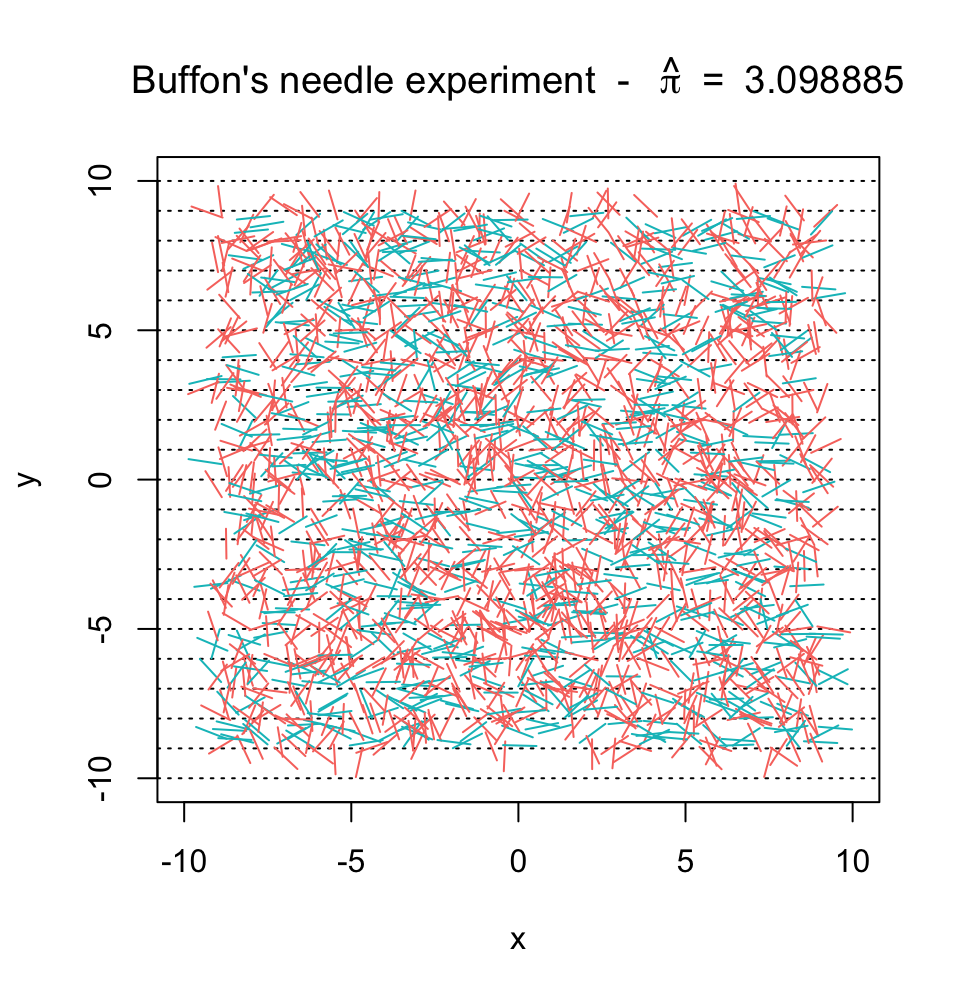
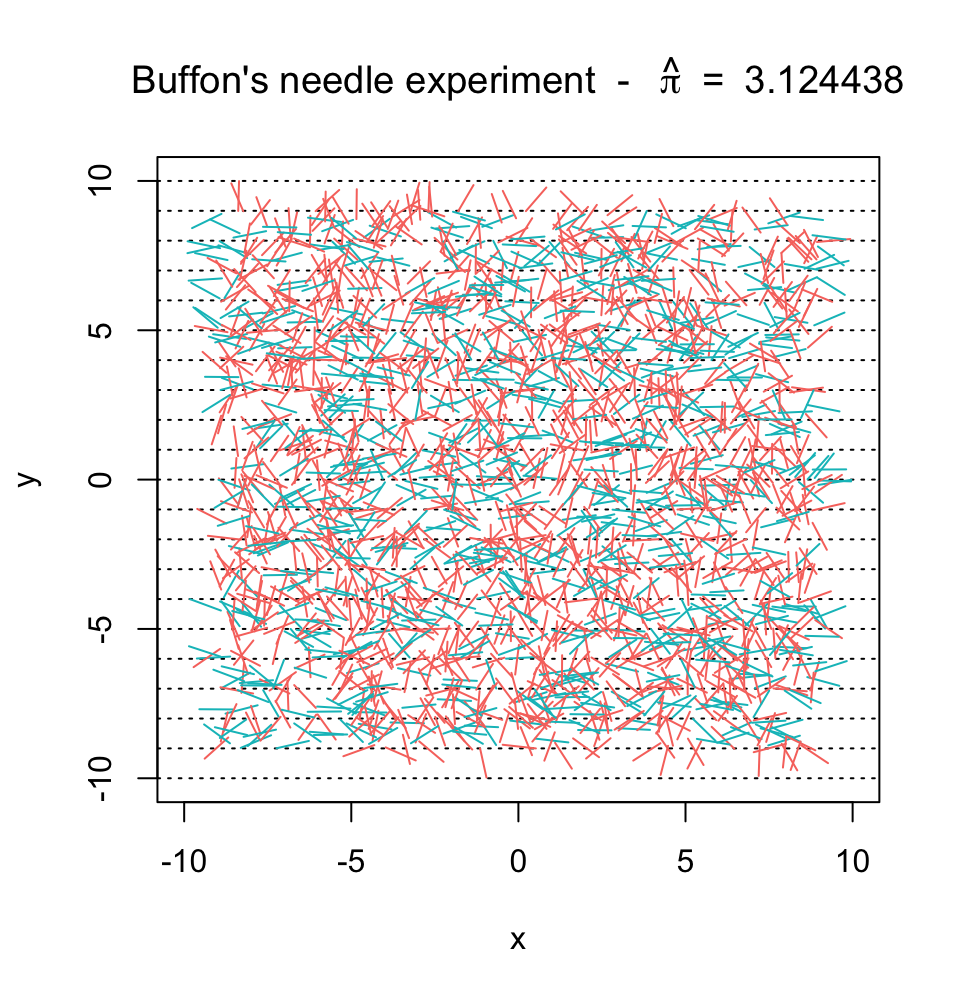
Update buffoon's needle introduction and derivation

Changed region(s): [[0.1875, 0.1864, 0.875, 0.7766], [0.8125, 0.0621, 0.9375, 0.0932]]

diff --git a/docs/shiny.html b/docs/shiny.html
@@ -7,7 +7,7 @@
   <meta http-equiv="X-UA-Compatible" content="IE=edge">
   <title>An Introduction to Statistical Programming Methods with R</title>
   <meta name="description" content="This book is under construction and serves as a reference for students or other interested readers who intend to learn the basics of statistical programming using the R language. The book will provide the reader with notions of data management, manipulation and analysis as well as of reproducible research, result-sharing and version control.">
-  <meta name="generator" content="bookdown 0.5 and GitBook 2.6.7">
+  <meta name="generator" content="bookdown 0.4.1 and GitBook 2.6.7">
 
   <meta property="og:title" content="An Introduction to Statistical Programming Methods with R" />
   <meta property="og:type" content="book" />
@@ -103,127 +103,16 @@ code > span.in { color: #60a0b0; font-weight: bold; font-style: italic; } /* Inf
 <li><a href="./">Statistical Programming Methods</a></li>
 
 <li class="divider"></li>
-<li class="chapter" data-level="1" data-path="index.html"><a href="index.html"><i class="fa fa-check"></i><b>1</b> Introduction</a><ul>
-<li class="chapter" data-level="1.1" data-path="index.html"><a href="index.html#r-and-rstudio"><i class="fa fa-check"></i><b>1.1</b> <code>R</code> and <code>RStudio</code></a><ul>
-<li class="chapter" data-level="1.1.1" data-path="index.html"><a href="index.html#why-r"><i class="fa fa-check"></i><b>1.1.1</b> Why <code>R</code>?</a></li>
-<li class="chapter" data-level="1.1.2" data-path="index.html"><a href="index.html#getting-started-with-r"><i class="fa fa-check"></i><b>1.1.2</b> Getting started with <code>R</code></a></li>
-<li class="chapter" data-level="1.1.3" data-path="index.html"><a href="index.html#about-rstudio"><i class="fa fa-check"></i><b>1.1.3</b> About RStudio</a></li>
-<li class="chapter" data-level="1.1.4" data-path="index.html"><a href="index.html#conventions"><i class="fa fa-check"></i><b>1.1.4</b> Conventions</a></li>
-<li class="chapter" data-level="1.1.5" data-path="index.html"><a href="index.html#simple-calculations"><i class="fa fa-check"></i><b>1.1.5</b> Simple calculations</a></li>
-<li class="chapter" data-level="1.1.6" data-path="index.html"><a href="index.html#getting-help"><i class="fa fa-check"></i><b>1.1.6</b> Getting help</a></li>
-<li class="chapter" data-level="1.1.7" data-path="index.html"><a href="index.html#installing-packages"><i class="fa fa-check"></i><b>1.1.7</b> Installing packages</a></li>
-<li class="chapter" data-level="1.1.8" data-path="index.html"><a href="index.html#additional-references"><i class="fa fa-check"></i><b>1.1.8</b> Additional References</a></li>
-</ul></li>
-<li class="chapter" data-level="1.2" data-path="index.html"><a href="index.html#basic-probability-and-statistics-with-r"><i class="fa fa-check"></i><b>1.2</b> Basic Probability and Statistics with <code>R</code></a><ul>
-<li class="chapter" data-level="1.2.1" data-path="index.html"><a href="index.html#probability-distributions"><i class="fa fa-check"></i><b>1.2.1</b> Probability Distributions</a></li>
-<li class="chapter" data-level="1.2.2" data-path="index.html"><a href="index.html#summary-statistics"><i class="fa fa-check"></i><b>1.2.2</b> Summary Statistics</a></li>
-</ul></li>
-<li class="chapter" data-level="1.3" data-path="index.html"><a href="index.html#main-references"><i class="fa fa-check"></i><b>1.3</b> Main References</a></li>
-<li class="chapter" data-level="1.4" data-path="index.html"><a href="index.html#license"><i class="fa fa-check"></i><b>1.4</b> License</a></li>
-</ul></li>
+<li class="chapter" data-level="1" data-path="index.html"><a href="index.html"><i class="fa fa-check"></i><b>1</b> Introduction</a></li>
 <li class="part"><span><b>I Foundation</b></span></li>
-<li class="chapter" data-level="2" data-path="rmarkdown.html"><a href="rmarkdown.html"><i class="fa fa-check"></i><b>2</b> RMarkdown</a><ul>
-<li><a href="rmarkdown.html#what-is-literate-programming">What is <strong>literate</strong> programming?</a></li>
-<li><a href="rmarkdown.html#what-is-reproducible-research">What is <strong>reproducible</strong> research?</a></li>
-<li class="chapter" data-level="2.1" data-path="rmarkdown.html"><a href="rmarkdown.html#create-an-r-markdown-file-in-rstudio"><i class="fa fa-check"></i><b>2.1</b> Create an R Markdown file in RStudio</a></li>
-<li class="chapter" data-level="2.2" data-path="rmarkdown.html"><a href="rmarkdown.html#yaml-metadata"><i class="fa fa-check"></i><b>2.2</b> YAML Metadata</a><ul>
-<li class="chapter" data-level="2.2.1" data-path="rmarkdown.html"><a href="rmarkdown.html#subsections"><i class="fa fa-check"></i><b>2.2.1</b> Subsections</a></li>
-</ul></li>
-<li class="chapter" data-level="2.3" data-path="rmarkdown.html"><a href="rmarkdown.html#text"><i class="fa fa-check"></i><b>2.3</b> Text</a><ul>
-<li class="chapter" data-level="2.3.1" data-path="rmarkdown.html"><a href="rmarkdown.html#headers"><i class="fa fa-check"></i><b>2.3.1</b> Headers</a></li>
-<li class="chapter" data-level="2.3.2" data-path="rmarkdown.html"><a href="rmarkdown.html#lists"><i class="fa fa-check"></i><b>2.3.2</b> Lists</a></li>
-<li class="chapter" data-level="2.3.3" data-path="rmarkdown.html"><a href="rmarkdown.html#hyperlinks"><i class="fa fa-check"></i><b>2.3.3</b> Hyperlinks</a></li>
-<li class="chapter" data-level="2.3.4" data-path="rmarkdown.html"><a href="rmarkdown.html#blockquotes"><i class="fa fa-check"></i><b>2.3.4</b> Blockquotes</a></li>
-<li class="chapter" data-level="2.3.5" data-path="rmarkdown.html"><a href="rmarkdown.html#pictures"><i class="fa fa-check"></i><b>2.3.5</b> Pictures</a></li>
-<li class="chapter" data-level="2.3.6" data-path="rmarkdown.html"><a href="rmarkdown.html#latex"><i class="fa fa-check"></i><b>2.3.6</b> LaTeX</a></li>
-<li class="chapter" data-level="2.3.7" data-path="rmarkdown.html"><a href="rmarkdown.html#cross-referencing-sections"><i class="fa fa-check"></i><b>2.3.7</b> Cross-referencing Sections</a></li>
-<li class="chapter" data-level="2.3.8" data-path="rmarkdown.html"><a href="rmarkdown.html#citations-and-bibliography"><i class="fa fa-check"></i><b>2.3.8</b> Citations and Bibliography</a></li>
-<li class="chapter" data-level="2.3.9" data-path="rmarkdown.html"><a href="rmarkdown.html#tables"><i class="fa fa-check"></i><b>2.3.9</b> Tables</a></li>
-<li class="chapter" data-level="2.3.10" data-path="rmarkdown.html"><a href="rmarkdown.html#additional-references-1"><i class="fa fa-check"></i><b>2.3.10</b> Additional References</a></li>
-</ul></li>
-<li class="chapter" data-level="2.4" data-path="rmarkdown.html"><a href="rmarkdown.html#code-chunks"><i class="fa fa-check"></i><b>2.4</b> Code Chunks</a><ul>
-<li class="chapter" data-level="2.4.1" data-path="rmarkdown.html"><a href="rmarkdown.html#code-chunk-options"><i class="fa fa-check"></i><b>2.4.1</b> Code Chunk Options</a></li>
-<li class="chapter" data-level="2.4.2" data-path="rmarkdown.html"><a href="rmarkdown.html#comments"><i class="fa fa-check"></i><b>2.4.2</b> Comments</a></li>
-<li class="chapter" data-level="2.4.3" data-path="rmarkdown.html"><a href="rmarkdown.html#in-line-r"><i class="fa fa-check"></i><b>2.4.3</b> In-line R</a></li>
-<li class="chapter" data-level="2.4.4" data-path="rmarkdown.html"><a href="rmarkdown.html#cache"><i class="fa fa-check"></i><b>2.4.4</b> Cache</a></li>
-</ul></li>
-<li class="chapter" data-level="2.5" data-path="rmarkdown.html"><a href="rmarkdown.html#render-output"><i class="fa fa-check"></i><b>2.5</b> Render Output</a></li>
-<li class="chapter" data-level="2.6" data-path="rmarkdown.html"><a href="rmarkdown.html#addition-information"><i class="fa fa-check"></i><b>2.6</b> Addition Information</a></li>
-</ul></li>
-<li class="chapter" data-level="3" data-path="github.html"><a href="github.html"><i class="fa fa-check"></i><b>3</b> GitHub</a><ul>
-<li class="chapter" data-level="3.1" data-path="github.html"><a href="github.html#version-control"><i class="fa fa-check"></i><b>3.1</b> Version Control</a></li>
-<li class="chapter" data-level="3.2" data-path="github.html"><a href="github.html#git-and-github"><i class="fa fa-check"></i><b>3.2</b> Git and GitHub</a><ul>
-<li class="chapter" data-level="3.2.1" data-path="github.html"><a href="github.html#git-setup"><i class="fa fa-check"></i><b>3.2.1</b> Git Setup</a></li>
-<li class="chapter" data-level="3.2.2" data-path="github.html"><a href="github.html#github-setup"><i class="fa fa-check"></i><b>3.2.2</b> GitHub Setup</a></li>
-<li class="chapter" data-level="3.2.3" data-path="github.html"><a href="github.html#student-developer-pack"><i class="fa fa-check"></i><b>3.2.3</b> Student Developer Pack</a></li>
-</ul></li>
-<li class="chapter" data-level="3.3" data-path="github.html"><a href="github.html#github-workflow"><i class="fa fa-check"></i><b>3.3</b> GitHub Workflow</a><ul>
-<li class="chapter" data-level="3.3.1" data-path="github.html"><a href="github.html#branching"><i class="fa fa-check"></i><b>3.3.1</b> Branching</a></li>
-<li class="chapter" data-level="3.3.2" data-path="github.html"><a href="github.html#pull"><i class="fa fa-check"></i><b>3.3.2</b> Pull</a></li>
-<li class="chapter" data-level="3.3.3" data-path="github.html"><a href="github.html#commits"><i class="fa fa-check"></i><b>3.3.3</b> Commits</a></li>
-<li class="chapter" data-level="3.3.4" data-path="github.html"><a href="github.html#push-or-merge"><i class="fa fa-check"></i><b>3.3.4</b> Push or Merge</a></li>
-<li class="chapter" data-level="3.3.5" data-path="github.html"><a href="github.html#merge-conflicts"><i class="fa fa-check"></i><b>3.3.5</b> Merge Conflicts</a></li>
-</ul></li>
-<li class="chapter" data-level="3.4" data-path="github.html"><a href="github.html#github-workflow-on-command-line-git-bash"><i class="fa fa-check"></i><b>3.4</b> GitHub Workflow on Command Line / Git Bash</a></li>
-<li class="chapter" data-level="3.5" data-path="github.html"><a href="github.html#issues"><i class="fa fa-check"></i><b>3.5</b> Issues</a></li>
-<li class="chapter" data-level="3.6" data-path="github.html"><a href="github.html#slack-integration"><i class="fa fa-check"></i><b>3.6</b> Slack Integration</a></li>
-<li class="chapter" data-level="3.7" data-path="github.html"><a href="github.html#additional-references-2"><i class="fa fa-check"></i><b>3.7</b> Additional References</a></li>
-</ul></li>
+<li class="chapter" data-level="2" data-path="rmarkdown.html"><a href="rmarkdown.html"><i class="fa fa-check"></i><b>2</b> RMarkdown</a></li>
+<li class="chapter" data-level="3" data-path="github.html"><a href="github.html"><i class="fa fa-check"></i><b>3</b> GitHub</a></li>
 <li class="part"><span><b>II Introduction to R</b></span></li>
-<li class="chapter" data-level="4" data-path="data.html"><a href="data.html"><i class="fa fa-check"></i><b>4</b> Data Structures</a><ul>
-<li class="chapter" data-level="4.1" data-path="data.html"><a href="data.html#vectors"><i class="fa fa-check"></i><b>4.1</b> Vectors</a><ul>
-<li class="chapter" data-level="4.1.1" data-path="data.html"><a href="data.html#type"><i class="fa fa-check"></i><b>4.1.1</b> Type</a></li>
-<li class="chapter" data-level="4.1.2" data-path="data.html"><a href="data.html#coercion"><i class="fa fa-check"></i><b>4.1.2</b> Coercion</a></li>
-<li class="chapter" data-level="4.1.3" data-path="data.html"><a href="data.html#subsetting"><i class="fa fa-check"></i><b>4.1.3</b> Subsetting</a></li>
-<li class="chapter" data-level="4.1.4" data-path="data.html"><a href="data.html#vectattr"><i class="fa fa-check"></i><b>4.1.4</b> Attributes</a></li>
-<li class="chapter" data-level="4.1.5" data-path="data.html"><a href="data.html#addlab"><i class="fa fa-check"></i><b>4.1.5</b> Adding Labels</a></li>
-<li class="chapter" data-level="4.1.6" data-path="data.html"><a href="data.html#working-with-dates"><i class="fa fa-check"></i><b>4.1.6</b> Working with Dates</a></li>
-<li class="chapter" data-level="4.1.7" data-path="data.html"><a href="data.html#useful-functions-with-vectors"><i class="fa fa-check"></i><b>4.1.7</b> Useful Functions with Vectors</a></li>
-<li class="chapter" data-level="4.1.8" data-path="data.html"><a href="data.html#creating-sequences"><i class="fa fa-check"></i><b>4.1.8</b> Creating sequences</a></li>
-<li class="chapter" data-level="4.1.9" data-path="data.html"><a href="data.html#example-apple-stock-price"><i class="fa fa-check"></i><b>4.1.9</b> Example: Apple Stock Price</a></li>
-</ul></li>
-<li class="chapter" data-level="4.2" data-path="data.html"><a href="data.html#matrices"><i class="fa fa-check"></i><b>4.2</b> Matrices</a><ul>
-<li class="chapter" data-level="4.2.1" data-path="data.html"><a href="data.html#subsetting-1"><i class="fa fa-check"></i><b>4.2.1</b> Subsetting</a></li>
-<li class="chapter" data-level="4.2.2" data-path="data.html"><a href="data.html#matrix-operators-in-r"><i class="fa fa-check"></i><b>4.2.2</b> Matrix Operators in R</a></li>
-<li class="chapter" data-level="4.2.3" data-path="data.html"><a href="data.html#example-summary-statistics-with-matrix-notation"><i class="fa fa-check"></i><b>4.2.3</b> Example: Summary Statistics with Matrix Notation</a></li>
-<li class="chapter" data-level="4.2.4" data-path="data.html"><a href="data.html#example-portfolio-optimization"><i class="fa fa-check"></i><b>4.2.4</b> Example: Portfolio Optimization</a></li>
-</ul></li>
-<li class="chapter" data-level="4.3" data-path="data.html"><a href="data.html#array"><i class="fa fa-check"></i><b>4.3</b> Array</a></li>
-<li class="chapter" data-level="4.4" data-path="data.html"><a href="data.html#list"><i class="fa fa-check"></i><b>4.4</b> List</a></li>
-<li class="chapter" data-level="4.5" data-path="data.html"><a href="data.html#dataframe"><i class="fa fa-check"></i><b>4.5</b> Dataframe</a><ul>
-<li class="chapter" data-level="4.5.1" data-path="data.html"><a href="data.html#creation"><i class="fa fa-check"></i><b>4.5.1</b> Creation</a></li>
-<li class="chapter" data-level="4.5.2" data-path="data.html"><a href="data.html#combination"><i class="fa fa-check"></i><b>4.5.2</b> Combination</a></li>
-<li class="chapter" data-level="4.5.3" data-path="data.html"><a href="data.html#subsetting-2"><i class="fa fa-check"></i><b>4.5.3</b> Subsetting</a></li>
-<li class="chapter" data-level="4.5.4" data-path="data.html"><a href="data.html#example-maps"><i class="fa fa-check"></i><b>4.5.4</b> Example: Maps</a></li>
-</ul></li>
-</ul></li>
-<li class="chapter" data-level="5" data-path="control.html"><a href="control.html"><i class="fa fa-check"></i><b>5</b> Control Structures</a><ul>
-<li class="chapter" data-level="5.1" data-path="control.html"><a href="control.html#introduction-1"><i class="fa fa-check"></i><b>5.1</b> Introduction</a></li>
-<li class="chapter" data-level="5.2" data-path="control.html"><a href="control.html#selcontrostat"><i class="fa fa-check"></i><b>5.2</b> Selection control statements</a><ul>
-<li class="chapter" data-level="5.2.1" data-path="control.html"><a href="control.html#sec_logical"><i class="fa fa-check"></i><b>5.2.1</b> Logical Operators</a></li>
-<li class="chapter" data-level="5.2.2" data-path="control.html"><a href="control.html#selection-operators"><i class="fa fa-check"></i><b>5.2.2</b> Selection Operators</a></li>
-<li class="chapter" data-level="5.2.3" data-path="control.html"><a href="control.html#iter_cont_stat"><i class="fa fa-check"></i><b>5.2.3</b> Iterative Control Statements</a></li>
-</ul></li>
-<li class="chapter" data-level="5.3" data-path="control.html"><a href="control.html#example-the-bootstrap"><i class="fa fa-check"></i><b>5.3</b> Example: The Bootstrap</a></li>
-<li class="chapter" data-level="5.4" data-path="control.html"><a href="control.html#example-random-walk"><i class="fa fa-check"></i><b>5.4</b> Example: Random Walk</a></li>
-<li class="chapter" data-level="5.5" data-path="control.html"><a href="control.html#example-monte-carlo-integration"><i class="fa fa-check"></i><b>5.5</b> Example: Monte-Carlo Integration</a><ul>
-<li class="chapter" data-level="5.5.1" data-path="control.html"><a href="control.html#introduction-2"><i class="fa fa-check"></i><b>5.5.1</b> Introduction</a></li>
-<li class="chapter" data-level="5.5.2" data-path="control.html"><a href="control.html#implementation"><i class="fa fa-check"></i><b>5.5.2</b> Implementation</a></li>
-<li class="chapter" data-level="5.5.3" data-path="control.html"><a href="control.html#application-to-the-normal-distribution"><i class="fa fa-check"></i><b>5.5.3</b> Application to the Normal Distribution</a></li>
-<li class="chapter" data-level="5.5.4" data-path="control.html"><a href="control.html#application-to-nonelementary-integrals"><i class="fa fa-check"></i><b>5.5.4</b> Application to Nonelementary Integrals</a></li>
-</ul></li>
-</ul></li>
-<li class="chapter" data-level="6" data-path="functions.html"><a href="functions.html"><i class="fa fa-check"></i><b>6</b> Functions</a><ul>
-<li class="chapter" data-level="6.1" data-path="functions.html"><a href="functions.html#r-functions"><i class="fa fa-check"></i><b>6.1</b> R functions</a></li>
-<li class="chapter" data-level="6.2" data-path="functions.html"><a href="functions.html#creating-functions-in-r"><i class="fa fa-check"></i><b>6.2</b> Creating functions in R</a><ul>
-<li class="chapter" data-level="6.2.1" data-path="functions.html"><a href="functions.html#function-arguments"><i class="fa fa-check"></i><b>6.2.1</b> Function arguments</a></li>
-<li class="chapter" data-level="6.2.2" data-path="functions.html"><a href="functions.html#function-body"><i class="fa fa-check"></i><b>6.2.2</b> Function body</a></li>
-</ul></li>
-<li class="chapter" data-level="6.3" data-path="functions.html"><a href="functions.html#function-environment"><i class="fa fa-check"></i><b>6.3</b> Function environment</a></li>
-<li class="chapter" data-level="6.4" data-path="functions.html"><a href="functions.html#example-continued-least-squares-function"><i class="fa fa-check"></i><b>6.4</b> Example (continued): Least-squares function</a></li>
-</ul></li>
+<li class="chapter" data-level="4" data-path="data.html"><a href="data.html"><i class="fa fa-check"></i><b>4</b> Data Structures</a></li>
+<li class="chapter" data-level="5" data-path="control.html"><a href="control.html"><i class="fa fa-check"></i><b>5</b> Control Structures</a></li>
+<li class="chapter" data-level="6" data-path="functions.html"><a href="functions.html"><i class="fa fa-check"></i><b>6</b> Functions</a></li>
 <li class="chapter" data-level="7" data-path="shiny.html"><a href="shiny.html"><i class="fa fa-check"></i><b>7</b> Shiny</a><ul>
-<li class="chapter" data-level="7.1" data-path="shiny.html"><a href="shiny.html#introduction-3"><i class="fa fa-check"></i><b>7.1</b> Introduction</a><ul>
+<li class="chapter" data-level="7.1" data-path="shiny.html"><a href="shiny.html#introduction-1"><i class="fa fa-check"></i><b>7.1</b> Introduction</a><ul>
 <li class="chapter" data-level="7.1.1" data-path="shiny.html"><a href="shiny.html#step-1.-r-code-server-backend"><i class="fa fa-check"></i><b>7.1.1</b> Step 1. R Code / Server / Backend</a></li>
 <li class="chapter" data-level="7.1.2" data-path="shiny.html"><a href="shiny.html#step-2-user-interface-ui-frontend"><i class="fa fa-check"></i><b>7.1.2</b> Step 2: User Interface (UI) / Frontend</a></li>
 <li class="chapter" data-level="7.1.3" data-path="shiny.html"><a href="shiny.html#step-3-connecting-frontend-and-backend"><i class="fa fa-check"></i><b>7.1.3</b> Step 3: Connecting frontend and backend</a></li>
@@ -254,7 +143,7 @@ code > span.in { color: #60a0b0; font-weight: bold; font-style: italic; } /* Inf
 <div id="shiny" class="section level1">
 <h1><span class="header-section-number">Chapter 7</span> Shiny</h1>
 <p>Shiny is an R package that makes it easy to build interactive web apps straight from R.</p>
-<div id="introduction-3" class="section level2">
+<div id="introduction-1" class="section level2">
 <h2><span class="header-section-number">7.1</span> Introduction</h2>
 <p>Before building the application, we want to know to build our application, and think more like a software engineer. We want to take some input, such as parameters, and produce output. In this chapter we will build the shiny applicaion building procedure.</p>
 <div id="step-1.-r-code-server-backend" class="section level3">
@@ -354,8 +243,8 @@ bins &lt;-<span class="st"> </span><span class="kw">seq</span>(<span class="kw">
 </tr>
 </tbody>
 </table>
-<div style="white-space: pre-line;">sidebarPanel() | Makes a sidebar menu |
-mainPanel() | Main content area for different output |</div>
+<p>sidebarPanel() | Makes a sidebar menu |<br />
+mainPanel() | Main content area for different output |</p>
 </div>
 <div id="output-render-controls" class="section level4">
 <h4><span class="header-section-number">7.1.2.3</span> Output Render Controls</h4>
@@ -406,123 +295,171 @@ mainPanel() | Main content area for different output |</div>
 </div>
 <div id="example-buffons-needle" class="section level2">
 <h2><span class="header-section-number">7.2</span> Example: Buffon’s needle</h2>
-<p>In 1777, the French nobleman Georges-Louis Leclerc, Compte de Buffon posed the following problem to the Royal Academy of Sciences in Paris (ADD REF HERE):</p>
+<p>In 1777, the French nobleman Georges-Louis Leclerc, Compte de Buffon posed the following problem to the Royal Academy of Sciences in Paris <span class="citation">(Georges-Louis Leclerc <a href="#ref-buffon1777essai">1777</a>)</span>:</p>
 <blockquote>
-<p>Suppose that you drop a short needle on a ruled paper - what is then the probability that the needle comes to lie in a position where it crosses one of the lines?</p>
+<p>Suppose that you drop a needle of unit length on a plane ruled by the lines <span class="math inline">\(y = m \; (m = 0, \pm 1, \pm 2, ...)\)</span> - what is then the probability that the needle comes to lie in a position where it crosses one of the lines?</p>
 </blockquote>
-<p>Compte de Buffon also provided the answer and showed that the needle will intersect lines with a predictable probability. In mathematical terms, his solution (still known today as the Buffon principle) can be stated as follows (for <span class="math inline">\(l \leq d\)</span>):</p>
-<p><span class="math display">\[
-\mathbb{P}(\text{intersection}) = \frac{2}{\pi} \times \frac{l}{d},
-\]</span></p>
-<p>where <span class="math inline">\(l\)</span> and <span class="math inline">\(d\)</span> denote, respectively, the length of the needle and the distance between the lines on the ruled paper. If you are curious about the derivation of this result, click on the button below.</p>
-<p>ADD PROOF HERE</p>
-<p>For simplicity, let us suppose that <span class="math inline">\(l = d\)</span>, i.e. the length of the needle is the same as distance between the lines on the ruled paper. In this case, we obtain</p>
-<p><span class="math display">\[
+<p>Compte de Buffon also provided the answer and showed that the needle will intersect lines with a predictable probability. In mathematical terms, his solution (still known today as the Buffon principle) can be stated as follows:</p>
+<span class="math display" id="eq:probbuffon">\[\begin{equation} 
 \mathbb{P}(\text{intersection}) = \frac{2}{\pi}.
-\]</span></p>
-<p>SOMETHING ABOUT MC</p>
-<p>Therefore, we obtain</p>
-<p><span class="math display">\[\hat{\pi} = \frac{2 n}{S_n}\]</span></p>
-<p>One can show that <span class="math inline">\(\[\hat{\pi}\)</span> converge in probability of <span class="math inline">\(\pi\)</span>, i.e. for all <span class="math inline">\(\varepsilon &gt; 0\)</span>:</p>
+\tag{7.1}
+\end{equation}\]</span>
+<p>If you are curious about the derivation of this result, click on the button below.</p>
+<button id="hidebutton2">
+Derivation - Equation (7.1)
+</button>
+<div id="hideclass2">
+
+<div class="rmdtip">
+<p>This proof is based on the solution of Example 4.5.8 of <span class="citation">Grimmett and Stirzaker (<a href="#ref-grimmett2001probability">2001</a>)</span>. We start by letting the point <span class="math inline">\((X, Y)\)</span> denote the coordinates of the center of the needle and let <span class="math inline">\(\Theta\)</span> be the angle, modulo <span class="math inline">\(\pi\)</span>, made by the needle and the horizontal axis. Next, we define the distance from the needle’s center to the nearest line beneath it by <span class="math inline">\(Z = Y - \lfloor Y \rfloor\)</span>, where <span class="math inline">\(\lfloor Y \rfloor\)</span> denotes the “floor” of <span class="math inline">\(Y\)</span>, i.e. the greatest integer not greater than <span class="math inline">\(Y\)</span>. Since the needle is randomly casted we have that the joint density of <span class="math inline">\((Z, \Theta)\)</span> is given by:</p>
 <p><span class="math display">\[
-\lim_{n \rightarrow \infty} \; \mathbb{P}\left( |\hat{\pi} - {\pi} | &gt; \varepsilon \right) = 0.
+f_{Z, \Theta} (z, \theta) = f_{Z} (z) f_{\Theta} (\theta) = \frac{1}{\pi},
 \]</span></p>
-<p>If you are curious click on the button below</p>
-<p>TO DO</p>
+<p>for <span class="math inline">\(0 \leq z \leq 1\)</span> and <span class="math inline">\(0 \leq \theta \leq \pi\)</span>. By drawing a diagram one can see that an interception occurs if and only if <span class="math inline">\((Z, \Theta) \in \mathcal{B}\)</span>, where</p>
+<p><span class="math display">\[
+\mathcal{B} = \left\{(z, \theta)\,: \;\; z \leq \frac{1}{2} \sin (\theta)  \;\; \text{or} \;\; 1-z \leq \frac{1}{2} \sin(\theta)\right\}.
+\]</span></p>
+<p>Therefore, we obtain</p>
+<p><span class="math display">\[
+\mathbb{P}(\text{intersection}) = \iint_\mathcal{B} \; f_{Z, \Theta} (z, \theta)\, dz \, d\theta = \frac{1}{\pi} \int_0^\pi \left(\int_0^{\frac{1}{2}\sin(\theta)} dz + \int_{1 - \frac{1}{2}\sin(\theta)}^{1} dz \right) d\theta = \frac{2}{\pi},
+\]</span></p>
+which verifies Equation <a href="shiny.html#eq:probbuffon">(7.1)</a> and concludes the proof.
+</div>
+<p></p>
+</div>
+<p></p>
+<p>Georges-Louis Leclerc motivation behind this problem was to design an experiment to estimate the value of <span class="math inline">\(\pi\)</span>. Indeed, if you fling a needle a large number <span class="math inline">\(n\)</span> times onto a ruled plane and count the number of times <span class="math inline">\(S_n\)</span> that the needle intersects a line we might be able to approximate <span class="math inline">\(\mathbb{P}(\text{intersection})\)</span> and therefore <span class="math inline">\(\pi\)</span>. From Equation <a href="shiny.html#eq:probbuffon">(7.1)</a>, we know that the proportion <span class="math inline">\(S_n/n\)</span> will be “close” to the probability <span class="math inline">\(\mathbb{P}(\text{intersection})\)</span>. In fact the (weak) law of large number garantees that <span class="math inline">\(S_n/n\)</span> converges (in probability) to <span class="math inline">\(2/\pi\)</span>, i.e. for any given <span class="math inline">\(\varepsilon &gt; 0\)</span>,</p>
+<p><span class="math display">\[
+\lim_{n \rightarrow \infty} \; \mathbb{P}\left( \left| \frac{S_n}{n} - \frac{2}{\pi} \right|  &gt; \varepsilon \right) = 0.
+\]</span></p>
+<p>Thus, the estimator</p>
+<p><span class="math display">\[
+\hat{\pi} = \frac{2n}{S_n},
+\]</span></p>
+<p>is a plausible estimator of <span class="math inline">\(\pi\)</span>. The Continous Mapping Theorem <span class="citation">(see e.g. Theorem 1.14 of DasGupta <a href="#ref-dasgupta2008asymptotic">2008</a>)</span> can (among other) be used to show that <span class="math inline">\(\hat{\pi}\)</span> is a <strong>consistent</strong> estimator of <span class="math inline">\(\pi\)</span> (i.e. <span class="math inline">\(\hat{\pi}\)</span> converges in probability to <span class="math inline">\(\pi\)</span>). In 1777, Georges-Louis Leclerc investigated this problem and computed <span class="math inline">\(\hat{\pi}\)</span> by flipping a coin 2084 times, which may consitute the first recorded example of a Monte-Carlo method (simulation?) in use.</p>
+<p>INTRO HERE</p>
 <p>In the function below, we cast a needle:</p>
-<div class="sourceCode"><pre class="sourceCode r"><code class="sourceCode r">cast_needle =<span class="st"> </span><span class="cf">function</span>(<span class="dt">plan =</span> <span class="dv">10</span>, <span class="dt">needle_length =</span> <span class="dv">1</span>){
-  available_range =<span class="st"> </span>plan <span class="op">-</span><span class="st"> </span>needle_length
-  x_start =<span class="st"> </span><span class="kw">runif</span>(<span class="dv">2</span>, <span class="op">-</span>available_range, available_range)
-  angle =<span class="st"> </span><span class="kw">runif</span>(<span class="dv">1</span>, <span class="dv">0</span>, <span class="dv">2</span><span class="op">*</span>pi)
-  x_end =<span class="st"> </span>needle_length<span class="op">*</span><span class="kw">c</span>(<span class="kw">cos</span>(angle), <span class="kw">sin</span>(angle)) <span class="op">+</span><span class="st"> </span>x_start
-  cross =<span class="st"> </span><span class="kw">floor</span>(x_start[<span class="dv">2</span>]) <span class="op">!=</span><span class="st"> </span><span class="kw">floor</span>(x_end[<span class="dv">2</span>])
+<div class="sourceCode"><pre class="sourceCode r"><code class="sourceCode r">cast_needle =<span class="st"> </span>function(<span class="dt">plan =</span> <span class="dv">10</span>, <span class="dt">needle_length =</span> <span class="dv">1</span>){
+  available_range =<span class="st"> </span>plan -<span class="st"> </span>needle_length
+  x_start =<span class="st"> </span><span class="kw">runif</span>(<span class="dv">2</span>, -available_range, available_range)
+  angle =<span class="st"> </span><span class="kw">runif</span>(<span class="dv">1</span>, <span class="dv">0</span>, <span class="dv">2</span>*pi)
+  x_end =<span class="st"> </span>needle_length*<span class="kw">c</span>(<span class="kw">cos</span>(angle), <span class="kw">sin</span>(angle)) +<span class="st"> </span>x_start
+  cross =<span class="st"> </span><span class="kw">floor</span>(x_start[<span class="dv">2</span>]) !=<span class="st"> </span><span class="kw">floor</span>(x_end[<span class="dv">2</span>])
   out =<span class="st"> </span><span class="kw">list</span>(<span class="dt">start =</span> x_start, <span class="dt">end =</span> x_end, <span class="dt">cross =</span> cross)
   out
 }</code></pre></div>
 <p>Next, let’s do many and compute <span class="math inline">\(\hat{\pi}\)</span>:</p>
-<div class="sourceCode"><pre class="sourceCode r"><code class="sourceCode r">buffon_needle =<span class="st"> </span><span class="cf">function</span>(<span class="dt">B =</span> <span class="dv">2084</span>, <span class="dt">plan =</span> <span class="dv">10</span>, <span class="dt">needle_length =</span> <span class="dv">1</span>, <span class="dt">seed =</span> <span class="ot">NULL</span>){
+<div class="sourceCode"><pre class="sourceCode r"><code class="sourceCode r">buffon_needle =<span class="st"> </span>function(<span class="dt">B =</span> <span class="dv">2084</span>, <span class="dt">plan =</span> <span class="dv">10</span>, <span class="dt">needle_length =</span> <span class="dv">1</span>, <span class="dt">seed =</span> <span class="ot">NULL</span>){
   
-  <span class="cf">if</span> (<span class="op">!</span><span class="kw">is.null</span>(seed)){
+  if (!<span class="kw">is.null</span>(seed)){
     <span class="kw">set.seed</span>(seed)
   }
   
   X_start =<span class="st"> </span>X_end =<span class="st"> </span><span class="kw">matrix</span>(<span class="ot">NA</span>, B, <span class="dv">2</span>) 
   cross =<span class="st"> </span><span class="kw">rep</span>(<span class="ot">NA</span>, B)
-  <span class="cf">for</span> (i <span class="cf">in</span> <span class="dv">1</span><span class="op">:</span>B){
+  for (i in <span class="dv">1</span>:B){
     inter =<span class="st"> </span><span class="kw">cast_needle</span>(<span class="dt">plan =</span> plan, <span class="dt">needle_length =</span> needle_length)
-    X_start[i, ] =<span class="st"> </span>inter<span class="op">$</span>start
-    X_end[i, ] =<span class="st"> </span>inter<span class="op">$</span>end
-    cross[i] =<span class="st"> </span>inter<span class="op">$</span>cross
+    X_start[i, ] =<span class="st"> </span>inter$start
+    X_end[i, ] =<span class="st"> </span>inter$end
+    cross[i] =<span class="st"> </span>inter$cross
   }
   out =<span class="st"> </span><span class="kw">list</span>(<span class="dt">start =</span> X_start, <span class="dt">end =</span> X_end, <span class="dt">cross =</span> cross, <span class="dt">plan =</span> plan)
   <span class="kw">class</span>(out) =<span class="st"> &quot;buffon_needle&quot;</span>
   out
 }</code></pre></div>
 <p>Let’s construct a plot function:</p>
-<div class="sourceCode"><pre class="sourceCode r"><code class="sourceCode r">plot.buffon_needle =<span class="st"> </span><span class="cf">function</span>(obj){
-  cross =<span class="st"> </span>obj<span class="op">$</span>cross
-  X_start =<span class="st"> </span>obj<span class="op">$</span>start
-  X_end =<span class="st"> </span>obj<span class="op">$</span>end
+<div class="sourceCode"><pre class="sourceCode r"><code class="sourceCode r">plot.buffon_needle =<span class="st"> </span>function(obj){
+  cross =<span class="st"> </span>obj$cross
+  X_start =<span class="st"> </span>obj$start
+  X_end =<span class="st"> </span>obj$end
   B =<span class="st"> </span><span class="kw">length</span>(cross)
-  cols =<span class="st"> </span><span class="kw">rev</span>(<span class="kw">hcl</span>(<span class="dt">h =</span> <span class="kw">seq</span>(<span class="dv">15</span>, <span class="dv">375</span>, <span class="dt">length =</span> <span class="dv">3</span>), <span class="dt">l =</span> <span class="dv">65</span>, <span class="dt">c =</span> <span class="dv">100</span>)[<span class="dv">1</span><span class="op">:</span><span class="dv">2</span>])
+  cols =<span class="st"> </span><span class="kw">rev</span>(<span class="kw">hcl</span>(<span class="dt">h =</span> <span class="kw">seq</span>(<span class="dv">15</span>, <span class="dv">375</span>, <span class="dt">length =</span> <span class="dv">3</span>), <span class="dt">l =</span> <span class="dv">65</span>, <span class="dt">c =</span> <span class="dv">100</span>)[<span class="dv">1</span>:<span class="dv">2</span>])
   
   titre_part1 =<span class="st"> &#39;Buffon</span><span class="ch">\&#39;</span><span class="st">s needle experiment  -  &#39;</span>
   titre_part2 =<span class="st"> &#39; = &#39;</span>
-  pi_hat =<span class="st"> </span><span class="kw">round</span>(<span class="dv">2</span><span class="op">/</span><span class="kw">mean</span>(obj<span class="op">$</span>cross), <span class="dv">6</span>)
+  pi_hat =<span class="st"> </span><span class="kw">round</span>(<span class="dv">2</span>/<span class="kw">mean</span>(obj$cross), <span class="dv">6</span>)
   
-  titre =<span class="st"> </span><span class="kw">bquote</span>(.(titre_part1) <span class="op">~</span><span class="st"> </span><span class="kw">hat</span>(pi) <span class="op">~</span><span class="st"> </span>.(titre_part2) <span class="op">~</span><span class="st"> </span>.(pi_hat))
+  titre =<span class="st"> </span><span class="kw">bquote</span>(.(titre_part1) ~<span class="st"> </span><span class="kw">hat</span>(pi) ~<span class="st"> </span>.(titre_part2) ~<span class="st"> </span>.(pi_hat))
   
-  <span class="kw">plot</span>(<span class="ot">NA</span>, <span class="dt">xlab =</span> <span class="st">&quot;x&quot;</span>, <span class="dt">ylab =</span> <span class="st">&quot;y&quot;</span>, <span class="dt">xlim =</span> <span class="kw">c</span>(<span class="op">-</span>obj<span class="op">$</span>plan, obj<span class="op">$</span>plan), 
-       <span class="dt">ylim =</span> <span class="kw">c</span>(<span class="op">-</span>obj<span class="op">$</span>plan, obj<span class="op">$</span>plan), 
+  <span class="kw">plot</span>(<span class="ot">NA</span>, <span class="dt">xlab =</span> <span class="st">&quot;x&quot;</span>, <span class="dt">ylab =</span> <span class="st">&quot;y&quot;</span>, <span class="dt">xlim =</span> <span class="kw">c</span>(-obj$plan, obj$plan), 
+       <span class="dt">ylim =</span> <span class="kw">c</span>(-obj$plan, obj$plan), 
        <span class="dt">main =</span> titre)
-  <span class="kw">abline</span>(<span class="dt">h =</span> (<span class="op">-</span>obj<span class="op">$</span>plan)<span class="op">:</span>obj<span class="op">$</span>plan, <span class="dt">lty =</span> <span class="dv">3</span>)
+  <span class="kw">abline</span>(<span class="dt">h =</span> (-obj$plan):obj$plan, <span class="dt">lty =</span> <span class="dv">3</span>)
   
-  <span class="cf">for</span> (i <span class="cf">in</span> <span class="dv">1</span><span class="op">:</span>B){
+  for (i in <span class="dv">1</span>:B){
     <span class="kw">lines</span>(<span class="kw">c</span>(X_start[i,<span class="dv">1</span>], X_end[i,<span class="dv">1</span>]), <span class="kw">c</span>(X_start[i,<span class="dv">2</span>], X_end[i,<span class="dv">2</span>]), 
-          <span class="dt">col =</span> cols[cross[i] <span class="op">+</span><span class="st"> </span><span class="dv">1</span>])
+          <span class="dt">col =</span> cols[cross[i] +<span class="st"> </span><span class="dv">1</span>])
   }
 }</code></pre></div>
 <p>This looks like:</p>
 <div class="sourceCode"><pre class="sourceCode r"><code class="sourceCode r">experiment =<span class="st"> </span><span class="kw">buffon_needle</span>()
 <span class="kw">plot</span>(experiment)</code></pre></div>
-<p><img src="ds_files/figure-html/unnamed-chunk-6-1.png" width="480" style="display: block; margin: auto;" /></p>
+<p><img src="ds_files/figure-html/unnamed-chunk-7-1.png" width="480" style="display: block; margin: auto;" /></p>
 <p>Finally, we can illustarte the converge in prob</p>
-<div class="sourceCode"><pre class="sourceCode r"><code class="sourceCode r">converge =<span class="st"> </span><span class="cf">function</span>(<span class="dt">B =</span> <span class="dv">2084</span>, <span class="dt">plan =</span> <span class="dv">10</span>, <span class="dt">needle_length =</span> <span class="dv">1</span>, <span class="dt">seed =</span> <span class="dv">1777</span>, <span class="dt">M =</span> <span class="dv">12</span>){
+<div class="sourceCode"><pre class="sourceCode r"><code class="sourceCode r">converge =<span class="st"> </span>function(<span class="dt">B =</span> <span class="dv">2084</span>, <span class="dt">plan =</span> <span class="dv">10</span>, <span class="dt">needle_length =</span> <span class="dv">1</span>, <span class="dt">seed =</span> <span class="dv">1777</span>, <span class="dt">M =</span> <span class="dv">12</span>){
   
-  <span class="cf">if</span> (B <span class="op">&lt;</span><span class="st"> </span><span class="dv">10</span>){
+  if (B &lt;<span class="st"> </span><span class="dv">10</span>){
     <span class="kw">warning</span>(<span class="st">&quot;B was changed to 10&quot;</span>)
     B =<span class="st"> </span><span class="dv">10</span>
   }
   pi_hat =<span class="st"> </span><span class="kw">matrix</span>(<span class="ot">NA</span>, B, M)
-  trials =<span class="st"> </span><span class="dv">1</span><span class="op">:</span>B
-  cols =<span class="st"> </span><span class="kw">rev</span>(<span class="kw">hcl</span>(<span class="dt">h =</span> <span class="kw">seq</span>(<span class="dv">15</span>, <span class="dv">375</span>, <span class="dt">length =</span> (M<span class="op">+</span><span class="dv">1</span>)), <span class="dt">l =</span> <span class="dv">65</span>, <span class="dt">c =</span> <span class="dv">100</span>, <span class="dt">alpha =</span> <span class="dv">1</span>)[<span class="dv">1</span><span class="op">:</span>M])
+  trials =<span class="st"> </span><span class="dv">1</span>:B
+  cols =<span class="st"> </span><span class="kw">rev</span>(<span class="kw">hcl</span>(<span class="dt">h =</span> <span class="kw">seq</span>(<span class="dv">15</span>, <span class="dv">375</span>, <span class="dt">length =</span> (M<span class="dv">+1</span>)), <span class="dt">l =</span> <span class="dv">65</span>, <span class="dt">c =</span> <span class="dv">100</span>, <span class="dt">alpha =</span> <span class="dv">1</span>)[<span class="dv">1</span>:M])
   
   <span class="kw">set.seed</span>(seed)
   
-  <span class="cf">for</span> (i <span class="cf">in</span> <span class="dv">1</span><span class="op">:</span>M){
-    cross =<span class="st"> </span><span class="kw">buffon_needle</span>(<span class="dt">B =</span> B, <span class="dt">plan =</span> plan, <span class="dt">needle_length =</span> needle_length)<span class="op">$</span>cross
-    pi_hat[,i] =<span class="st"> </span><span class="dv">2</span><span class="op">*</span>trials<span class="op">/</span><span class="kw">cumsum</span>(cross)
+  for (i in <span class="dv">1</span>:M){
+    cross =<span class="st"> </span><span class="kw">buffon_needle</span>(<span class="dt">B =</span> B, <span class="dt">plan =</span> plan, <span class="dt">needle_length =</span> needle_length)$cross
+    pi_hat[,i] =<span class="st"> </span><span class="dv">2</span>*trials/<span class="kw">cumsum</span>(cross)
   }
   
   
-  <span class="kw">plot</span>(<span class="ot">NA</span>, <span class="dt">xlim =</span> <span class="kw">c</span>(<span class="dv">1</span>,B), <span class="dt">ylim =</span> pi <span class="op">+</span><span class="st"> </span><span class="kw">c</span>(<span class="op">-</span><span class="dv">3</span><span class="op">/</span><span class="dv">4</span>, <span class="dv">3</span><span class="op">/</span><span class="dv">4</span>), <span class="dt">type =</span> <span class="st">&quot;l&quot;</span>, <span class="dt">col =</span> <span class="st">&quot;darkblue&quot;</span>,
+  <span class="kw">plot</span>(<span class="ot">NA</span>, <span class="dt">xlim =</span> <span class="kw">c</span>(<span class="dv">1</span>,B), <span class="dt">ylim =</span> pi +<span class="st"> </span><span class="kw">c</span>(-<span class="dv">3</span>/<span class="dv">4</span>, <span class="dv">3</span>/<span class="dv">4</span>), <span class="dt">type =</span> <span class="st">&quot;l&quot;</span>, <span class="dt">col =</span> <span class="st">&quot;darkblue&quot;</span>,
        <span class="dt">ylab =</span> <span class="kw">bquote</span>(<span class="kw">hat</span>(pi)[i]),
        <span class="dt">xlab =</span> <span class="st">&quot;i&quot;</span>, <span class="dt">main =</span> <span class="st">&quot;Buffon</span><span class="ch">\&#39;</span><span class="st">s needle experiment in time&quot;</span>)
   <span class="kw">grid</span>()
   
-  <span class="cf">for</span> (i <span class="cf">in</span> <span class="dv">1</span><span class="op">:</span>M){
+  for (i in <span class="dv">1</span>:M){
     <span class="kw">lines</span>(trials, pi_hat[,i], <span class="dt">col =</span> cols[i])
   }
   
   <span class="kw">abline</span>(<span class="dt">h =</span> pi, <span class="dt">lwd =</span> <span class="dv">2</span>, <span class="dt">lty =</span> <span class="dv">2</span>)
 }</code></pre></div>
-<div class="sourceCode"><pre class="sourceCode r"><code class="sourceCode r"><span class="kw">converge</span>(<span class="dt">B =</span> <span class="dv">5</span><span class="op">*</span><span class="dv">10</span><span class="op">^</span><span class="dv">4</span>, <span class="dt">M =</span> <span class="dv">4</span>, <span class="dt">seed =</span> <span class="dv">10</span>)</code></pre></div>
-<p><img src="ds_files/figure-html/unnamed-chunk-8-1.png" width="576" style="display: block; margin: auto;" /></p>
-<p>What we want</p>
+<div class="sourceCode"><pre class="sourceCode r"><code class="sourceCode r"><span class="kw">converge</span>(<span class="dt">B =</span> <span class="dv">5</span>*<span class="dv">10</span>^<span class="dv">4</span>, <span class="dt">M =</span> <span class="dv">4</span>, <span class="dt">seed =</span> <span class="dv">10</span>)</code></pre></div>
+<p><img src="ds_files/figure-html/unnamed-chunk-9-1.png" width="576" style="display: block; margin: auto;" /></p>
+<p>What we want:</p>
+<ul>
+<li>inputs</li>
+<li>2 tabs</li>
+<li>buttom to draw + update seed</li>
+</ul>
 <center>
 <img src="images/buffon.png" />
 </center>
+<script type="text/javascript" src="http://ajax.googleapis.com/ajax/libs/jquery/1.3.2/jquery.min.js"></script>
+<script type="text/javascript">
+    $("#hideclass1").hide();
+    $("#hideclass2").hide();
+    $("#hidebutton1").click(function(){
+      $("#hideclass1").toggle();
+    });
+    $("#hidebutton2").click(function(){
+      $("#hideclass2").toggle();
+    });
+</script>
 
+</div>
+</div>
+<h3> Placeholder</h3>
+<div id="refs" class="references">
+<div id="ref-buffon1777essai">
+<p>Georges-Louis Leclerc, Compte de Buffon. 1777. <em>Essai d’arithmétique Morale</em>. Histoire naturelle, générale, et particulière (supplément).</p>
+</div>
+<div id="ref-grimmett2001probability">
+<p>Grimmett, Geoffrey, and David Stirzaker. 2001. <em>Probability and Random Processes</em>. Oxford university press.</p>
+</div>
+<div id="ref-dasgupta2008asymptotic">
+<p>DasGupta, Anirban. 2008. <em>Asymptotic Theory of Statistics and Probability</em>. Springer Science &amp; Business Media.</p>
 </div>
 </div>
             </section>
